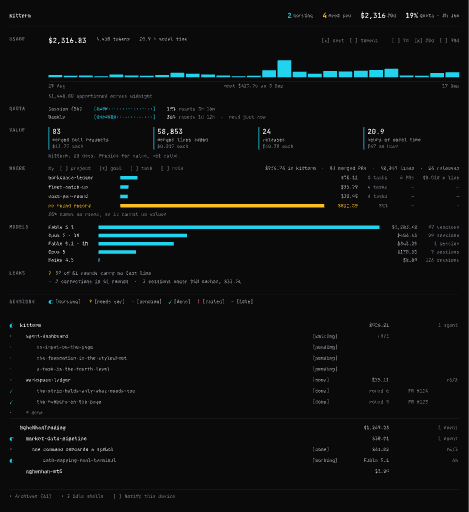
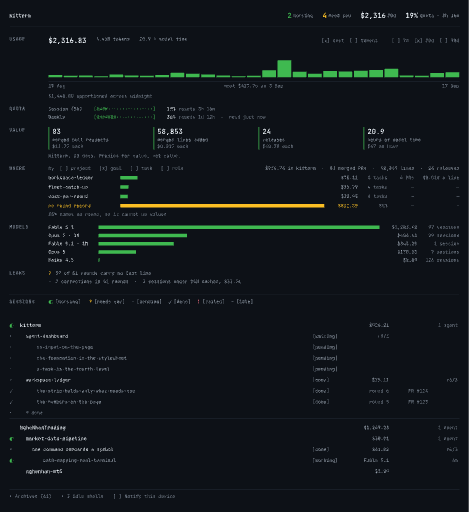
Take the palette kitterm already has, and grey out what is finished
The human asked what colour the landing page uses. It uses a defined
one, and reading it settled a question two rounds of invention had not.

`site/index.html` sets `--accent: #3fb950`. That green is the favicon's
chevron, the blinking caret beside the headline, and what `favicon.ts`
calls `connected`. Its whole ground is already the page's ground.

The dashboard never needed a new hue. It needed to stop spending green
on two things: `tokens.css` binds `--ui-success` to the same `#3fb950`,
so green meant both kitterm and done.

Principle 5 changes to free it. Colour marks what needs attention, and a
finished thing is grey. A done task is history; it needs nothing from
the reader, so a grey tick says it. That leaves three hues, not four:
the brand green for what is alive, amber for what is blocked on a
person, red for what is broken.

The three sit at 128, 43 and 351 degrees, so the closest pair is 52 —
the widest of any palette drawn, because fewer colours compete. Both
themes measured on the ground and on the surface with zero failures. One
value moved: `faint` lifted from the landing page's #6e7681, which reads
4.19 on the surface, to #7d8794.

Claude-Session: https://claude.ai/code/session_012ztzwyRLLwgnU2inMa4JWu

diff --git a/docs/goals/agent-dashboard/corpus/palette.md b/docs/goals/agent-dashboard/corpus/palette.md
@@ -68,7 +68,62 @@ Signal the cyan accent sits 46° from the success green; in Phosphor the
 accent *is* green and success has to move to cyan, which inverts a
 mapping every reader already knows.
 
-## Round two: not cyan, not purple
+## The decision: Prompt, the palette kitterm already has
+
+The human asked what colour the landing page uses. It uses a defined
+one, and looking there settled the question that two rounds of
+invention had not.
+
+**`site/index.html` sets `--accent: #3fb950`.** That green is the
+favicon's chevron and pipe, the blinking caret beside the headline, and
+`Web/terminal/src/favicon.ts` calls the same value `connected`. The
+landing page's whole ground is already the page's ground: `--bg
+#0d1117`, `--panel #131922`, `--line #232b36`, `--fg #e6edf3`, `--muted
+#9aa5b1`, `--dim #6e7681`.
+
+**The dashboard never needed a new hue. It needed to stop spending
+green on two things.** `tokens.css` binds `--ui-success` to the same
+`#3fb950`, so green means both "kitterm" and "done".
+
+### The rule that frees it
+
+**Colour marks what needs attention. A finished thing is grey.**
+
+A done task is history. It needs nothing from the reader, so it does not
+earn a colour — a grey `✓` says it. The same holds for pending and for
+idle. That leaves three hues, not four:
+
+| State | Colour | Why it is coloured |
+|---|---|---|
+| working | `#3fb950` the brand green | it is alive; this is the caret's colour |
+| needs you | `#fbbf24` amber | it is blocked on a person |
+| failed | `#fb7185` red | it is broken |
+| done, pending, idle | grey | they need nothing |
+
+Three hues sit at 128°, 43° and 351°. **The closest pair is 52°, the
+widest of any palette drawn**, and it is wide for a reason that is not
+luck: there are fewer colours competing.
+
+Both themes measured, on the ground and on the surface: zero failures.
+The dark values are the landing page's own.
+
+| Token | Dark, from `site/index.html` | Light |
+|---|---|---|
+| `bg` | `#0d1117` | `#ffffff` |
+| `surface` | `#131922` | `#f6f8fa` |
+| `border` | `#232b36` | `#d0d7de` |
+| `text` | `#e6edf3` | `#1f2328` |
+| `muted` | `#9aa5b1` | `#4d5560` |
+| `faint` | `#7d8794` | `#5f6873` |
+| `accent` | `#3fb950` | `#1a7f37` |
+| `warning` | `#fbbf24` | `#8a5a00` |
+| `danger` | `#fb7185` | `#c8102e` |
+
+One value moved: `faint` lifted from the landing page's `#6e7681` to
+`#7d8794`, because `#6e7681` reads 4.19 on the surface and a text pair
+needs 4.5.
+
+## Superseded: round two, not cyan, not purple
 
 The human ruled out cyan on 2026-09-17, after ruling out violet the same
 day. That closes most of the wheel.
@@ -100,7 +155,7 @@ failed is close for two marks in the same column.
 The human picks. Every frame draws from the document variables, so the
 re-tint is one edit whichever they take.
 
-## Superseded: Carbon
+## Superseded: Carbon, before the landing page was read
 
 **Carbon, under rule C.** The human ruled out violet on 2026-09-17, so
 Flux is not taken despite the best numbers, and Carbon is the pick.

diff --git a/docs/goals/agent-dashboard/corpus/design-foundation.md b/docs/goals/agent-dashboard/corpus/design-foundation.md
@@ -59,9 +59,12 @@ Five, in order. When two conflict, the earlier one wins.
    first whose advance width matches the mark column: braille
    `⠋ ⠙ ⠹ ⠸ ⠼ ⠴ ⠦ ⠧ ⠇ ⠏`, which matches the pane; quadrant `◐ ◓ ◑ ◒`;
    then the block ramp `▁ ▃ ▅ ▇`, which the chart already proves.
-5. **Colour marks state and nothing else.** Text is one of three greys.
-   The four semantic colours appear on the one-character mark at the
-   start of a line, and nowhere else.
+5. **Colour marks what needs attention. A finished thing is grey.** Text
+   is one of three greys. Three colours appear on the one-character mark
+   at the start of a line, and nowhere else: the brand green for what is
+   alive, amber for what is blocked on a person, red for what is broken.
+   Done, pending and idle are grey, because they need nothing from the
+   reader.
 
 ## Hierarchy
 
@@ -225,9 +228,10 @@ recommendation is **Flux**, pending the human's pick:
 | `--ui-danger` failed | `#f87171` | |
 
 They paint the mark glyph. They never paint text, a background, or a
-border. The lowest ratio any pair reaches on any bundled theme is 5.20,
-against 4.18 for the palette the page had, so the ratchet gains no
-`KNOWN_BELOW` entry.
+border. Three hues sit at 128°, 43° and 351°, so the closest pair is
+52°, the widest of any palette drawn — because there are fewer colours
+competing. The lowest contrast ratio is 5.20, against 4.18 for the
+palette the page had, so the ratchet gains no `KNOWN_BELOW` entry.
 
 ## The frame
 
